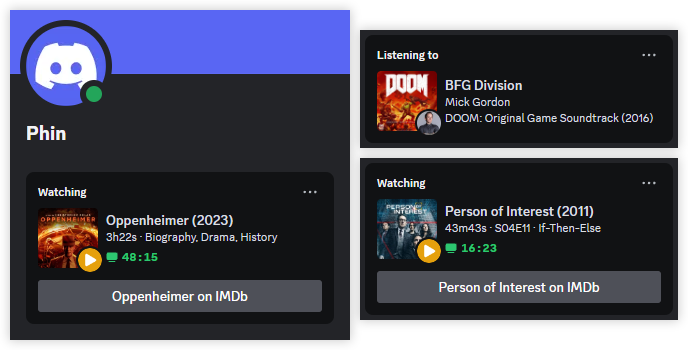
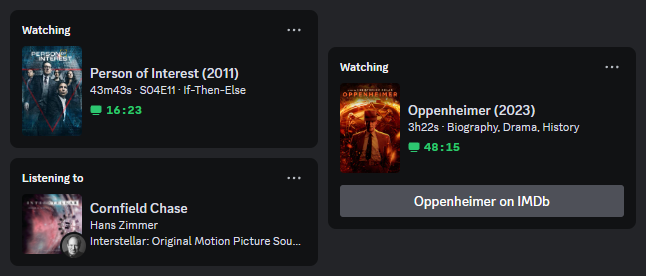
Updated README and bumped version to v2.9.0

diff --git a/config/constants.py b/config/constants.py
@@ -2,7 +2,7 @@ import os
 import sys
 
 name = "Discord Rich Presence for Plex"
-version = "2.8.0"
+version = "2.9.0"
 
 plexClientID = "discord-rich-presence-plex"
 discordClientID = "413407336082833418"

diff --git a/README.md b/README.md
@@ -37,11 +37,12 @@ The config file is stored in a directory named `data`.
   * `writeToFile` (boolean, default: `false`) - Writes console output to a `console.log` file in the `data` directory.
 * `display` - Display settings for Rich Presence
   * `duration` (boolean, default: `true`) - Displays the total duration.
-  * `genres` (boolean, default: `true`) - Displays the genre (applicable to movies only).
-  * `album` (boolean, default: `true`) - Displays the album name (applicable to music only).
+  * `genres` (boolean, default: `true`) - Displays the genre. Applicable to movies only.
+  * `album` (boolean, default: `true`) - Displays the album name. Applicable to music only.
   * `year` (boolean, default: `true`) - Displays the release year.
-  * `remainingTime` (boolean, default: `false`) - Displays remaining time instead of elapsed time.
-  * `paused` (boolean, default: `false`) - Displays Rich Presence even while media is paused.
+  * `statusIcon` (boolean, default: `false`) - Displays a status icon (playing, paused, buffering) at the bottom-right corner of the poster. Applicable to movies and TV shows only. Posters get cropped to a square if this is enabled (Discord bug/limitation).
+  * `remainingTime` (boolean, default: `false`) - Displays remaining time instead of elapsed time. This is currently broken due to a Discord bug/limitation.
+  * `paused` (boolean, default: `false`) - Displays Rich Presence even while media is paused. Timestamp while paused is currently broken due to a Discord bug/limitation.
   * `posters`
     * `enabled` (boolean, default: `false`) - Displays media posters (including album art and artist images). Requires `imgurClientID`.
     * `imgurClientID` (string, default: `""`) - [Obtention Instructions](#obtaining-an-imgur-client-id)
@@ -67,7 +68,7 @@ The config file is stored in a directory named `data`.
 
 ### Buttons
 
-Discord can display up to 2 buttons in your Rich Presence. Buttons are visible to only other users and not yourself.
+Discord can display up to 2 buttons in your Rich Presence. Buttons are visible to only other users and not yourself (Discord bug/limitation).
 
 #### Dynamic Button Labels
 

diff --git a/.github/release-notes/v2.9.0.md b/.github/release-notes/v2.9.0.md
@@ -1,0 +1,8 @@
+### Release Notes
+
+* Posters for movies and TV shows are no longer cropped to a square by default. This is achieved by disabling the status icon, which can be re-enabled by setting `display.statusIcon` to `true` in the config.
+
+### Installation Instructions
+
+* [Regular](https://github.com/phin05/discord-rich-presence-plex/blob/v2.9.0/README.md#installation)
+* [Docker](https://github.com/phin05/discord-rich-presence-plex/blob/v2.9.0/README.md#run-with-docker)
